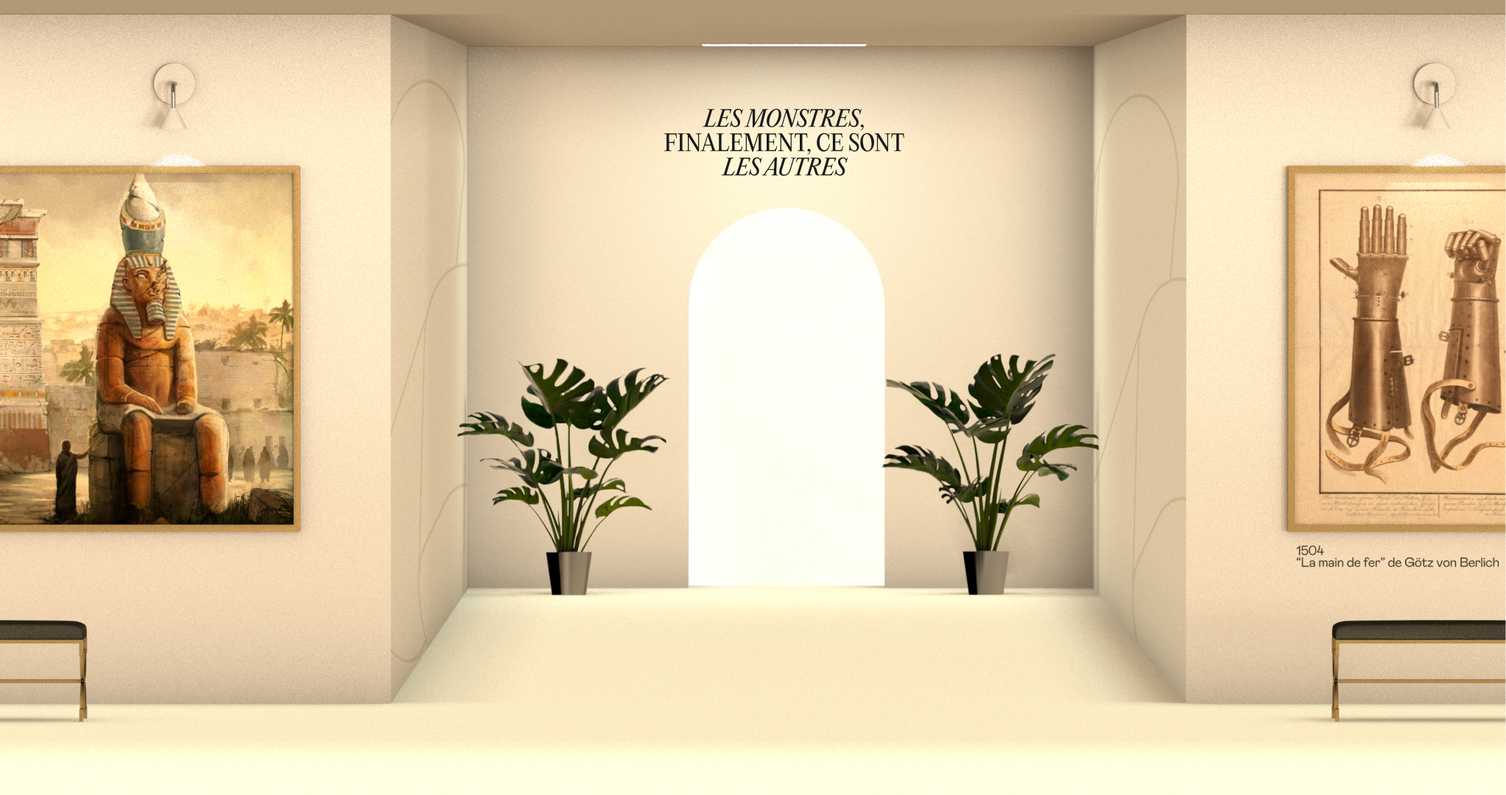
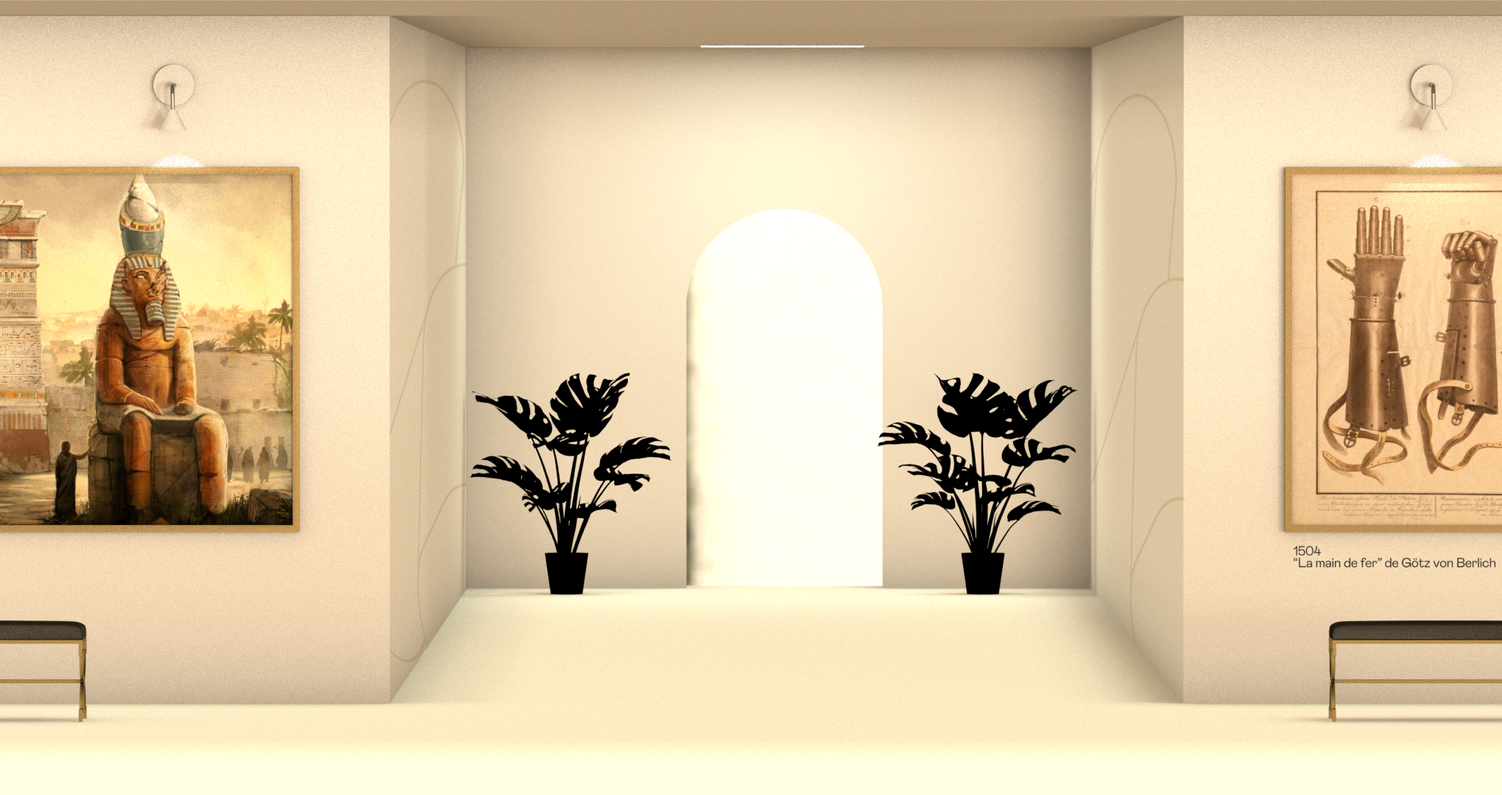
Revert "Update style and slide"
This reverts commit c1f8d85c9178292809002bb074d7543dca048cab.

diff --git a/assets/style.css b/assets/style.css
@@ -581,10 +581,22 @@ button:active, button:focus {
 }
 .--one .content {
   left: 50%;
-  top: 81%;
+  top: 50%;
   transform: translate(-50%, -50%);
   width: 50rem;
   text-align: center;
+}
+.--one .title {
+  font-size: 3.8rem;
+  line-height: 1.56;
+  font-weight: 400;
+  margin: 0 0 4rem;
+  text-transform: uppercase;
+  font-family: "Mabry Pro";
+}
+.--one .desc {
+  max-width: 30rem;
+  margin: 3rem auto;
 }
 .--one .credits {
   font-size: 1rem;
@@ -593,14 +605,7 @@ button:active, button:focus {
   text-transform: uppercase;
   text-align: center;
   opacity: 0.4;
-  margin-top: 14rem;
-}
-.--one .credits a {
-  color: #000;
-  transition: opacity 0.5s ease;
-}
-.--one .credits a:hover {
-  opacity: 1;
+  margin-top: 17rem;
 }
 @keyframes guide-btn {
   0% {
@@ -614,18 +619,17 @@ button:active, button:focus {
   }
 }
 .--one .enter-btn {
-  background-color: transparent;
-  color: #191919;
-  border: 0.1rem solid #A1A09D;
-  padding: 3.5rem 6rem;
-  border-radius: 50%;
-  font-family: "Editorial New";
-  text-transform: uppercase;
-  font-family: 1.8rem;
-  transition: all 0.5s ease;
+  background-color: #AD8665;
+  color: #fff;
 }
-.--one .enter-btn:hover {
-  text-decoration: underline;
+.--one .enter-btn::after {
+  margin-left: 1.2rem;
+  display: inline-block;
+  content: "";
+  width: 1rem;
+  height: 1rem;
+  background-image: url("@/assets/chevron.png");
+  background-size: cover;
 }
 .--one .sound-btn {
   display: inline-block;
@@ -653,12 +657,7 @@ button:active, button:focus {
   bottom: 5rem;
 }
 .--one .accessibility-btn {
-  background-color: #191919;
-  color: #EDE9E3;
-  transition: all 0.5s;
-}
-.--one .accessibility-btn:hover {
-  text-decoration: underline;
+  background-color: #EDE9E3;
 }
 .--one .guide-btn {
   margin-right: 1.8rem;
@@ -668,19 +667,20 @@ button:active, button:focus {
   background-image: url("@/assets/union.svg");
   background-size: cover;
   display: inline-block;
-  margin-right: 0.7rem;
+  margin-right: 0.5rem;
   width: 1.3rem;
   height: 1.3rem;
   background-position: center;
   background-repeat: no-repeat;
-  margin-top: 0.1rem;
-}
-.--one .guide-btn.--active::before, .--one .guide-btn:hover::before {
+  opacity: 0;
   animation-name: guide-btn;
   animation-duration: 4s;
   animation-iteration-count: infinite;
   animation-timing-function: linear;
   transition: opacity ease 0.2s;
+}
+.--one .guide-btn.--active::before, .--one .guide-btn:hover::before {
+  opacity: 1;
 }
 
 .--two .timeline {
@@ -698,7 +698,7 @@ button:active, button:focus {
 .--five .btn-line-wrapper {
   position: absolute;
   top: 30%;
-  left: 31.5%;
+  left: 36%;
 }
 
 main#accessibilite {
@@ -802,9 +802,7 @@ main#loader {
   height: 100vh;
   width: 100%;
   display: flex;
-  background: url("/slide-9.png");
-  background-position: center;
-  background-size: cover;
+  background-color: #EDE9E3;
 }
 main#loader img {
   margin: auto;

diff --git a/assets/scss/components/_slide-1.scss b/assets/scss/components/_slide-1.scss
@@ -3,25 +3,25 @@
 
   .content {
     left: 50%;
-    top: 81%;
+    top: 50%;
     transform: translate(-50%, -50%);
     width: 50rem;
     text-align: center;
   }
 
-  // .title {
-  //   font-size: 3.8rem;
-  //   line-height: 1.56;
-  //   font-weight: 400;
-  //   margin: 0 0 4rem;
-  //   text-transform: uppercase;
-  //   font-family: 'Mabry Pro';
-  // }
+  .title {
+    font-size: 3.8rem;
+    line-height: 1.56;
+    font-weight: 400;
+    margin: 0 0 4rem;
+    text-transform: uppercase;
+    font-family: 'Mabry Pro';
+  }
 
-  // .desc {
-  //   max-width: 30rem;
-  //   margin: 3rem auto;
-  // }
+  .desc {
+    max-width: 30rem;
+    margin: 3rem auto;
+  }
 
   .credits {
     font-size: 1rem;
@@ -30,14 +30,7 @@
     text-transform: uppercase;
     text-align: center;
     opacity: 0.4;
-    margin-top: 14rem;
-    a {
-      color: #000;
-      transition: opacity .5s ease;
-      &:hover {
-        opacity: 1;
-      }
-    }
+    margin-top: 17rem;
   }
 
   @keyframes guide-btn {
@@ -47,17 +40,16 @@
   }
 
   .enter-btn {
-    background-color: transparent;
-    color: $black;
-    border: .1rem solid $grey;
-    padding: 3.5rem 6rem;
-    border-radius: 50%;
-    font-family: 'Editorial New';
-    text-transform: uppercase;
-    font-family: 1.8rem;
-    transition: all .5s ease;
-    &:hover {
-      text-decoration: underline;
+    background-color: $brown;
+    color: $white;
+    &::after {
+      margin-left: 1.2rem;
+      display: inline-block;
+      content: '';
+      width: 1rem;
+      height: 1rem;
+      background-image: url('@/assets/chevron.png');
+      background-size: cover;
     }
   }
 
@@ -90,12 +82,7 @@
   }
 
   .accessibility-btn {
-    background-color: $black;
-    color: $light;
-    transition: all .5s;
-    &:hover {
-      text-decoration: underline;
-    }
+    background-color: $light;
   }
 
   .guide-btn {
@@ -106,24 +93,23 @@
       background-image: url('@/assets/union.svg');
       background-size: cover;
       display: inline-block;
-      margin-right: 0.7rem;
+      margin-right: 0.5rem;
       width: 1.3rem;
       height: 1.3rem;
       background-position: center;
       background-repeat: no-repeat;
-      margin-top: .1rem;
-      // opacity: 0;
+      opacity: 0;
+      animation-name: guide-btn;
+      animation-duration: 4s;
+      animation-iteration-count: infinite;
+      animation-timing-function: linear;
+      transition: opacity ease 0.2s;
     }
 
     &.--active, &:hover {
 
       &::before {
-        // opacity: 1;
-        animation-name: guide-btn;
-        animation-duration: 4s;
-        animation-iteration-count: infinite;
-        animation-timing-function: linear;
-        transition: opacity ease 0.2s;
+        opacity: 1;
       }
     }
   }

diff --git a/components/Museum.vue b/components/Museum.vue
@@ -7,10 +7,10 @@
           <img loading="lazy" src="@/assets/logo.svg" alt="">
         </a>
         <div class="content">
-          <!-- <h1 class="title">le voyage<br/>au-delà des normes</h1> -->
-          <!-- <p class="desc">Bienvenue dans l’exposition interactive sur le handicap. Là où le handicap est une force.</p> -->
-          <a class="enter-btn" @click="scrollToStart">Découvrir</a>
-          <p class="credits">Créé par<br/><a href="https://www.observatoirehandicapmonde.com/" aria-label="Allez sur le site observatoire des politiques du handicap">observatoire des politiques du handicap</a></p>
+          <h1 class="title">le voyage<br/>au-delà des normes</h1>
+          <p class="desc">Bienvenue dans l’exposition interactive sur le handicap. Là où le handicap est une force.</p>
+          <a class="enter-btn btn --big" @click="scrollToStart">Entrez</a>
+          <p class="credits">Créé par<br/><u>observatoire des politique du handicap</u></p>
         </div>
         <Player />
         <div class="btn-wrapper">

diff --git a/assets/scss/components/_slide-5.scss b/assets/scss/components/_slide-5.scss
@@ -6,6 +6,6 @@
   .btn-line-wrapper {
     position: absolute;
     top: 30%;
-    left: 31.5%;
+    left: 36%;
   }
 }
